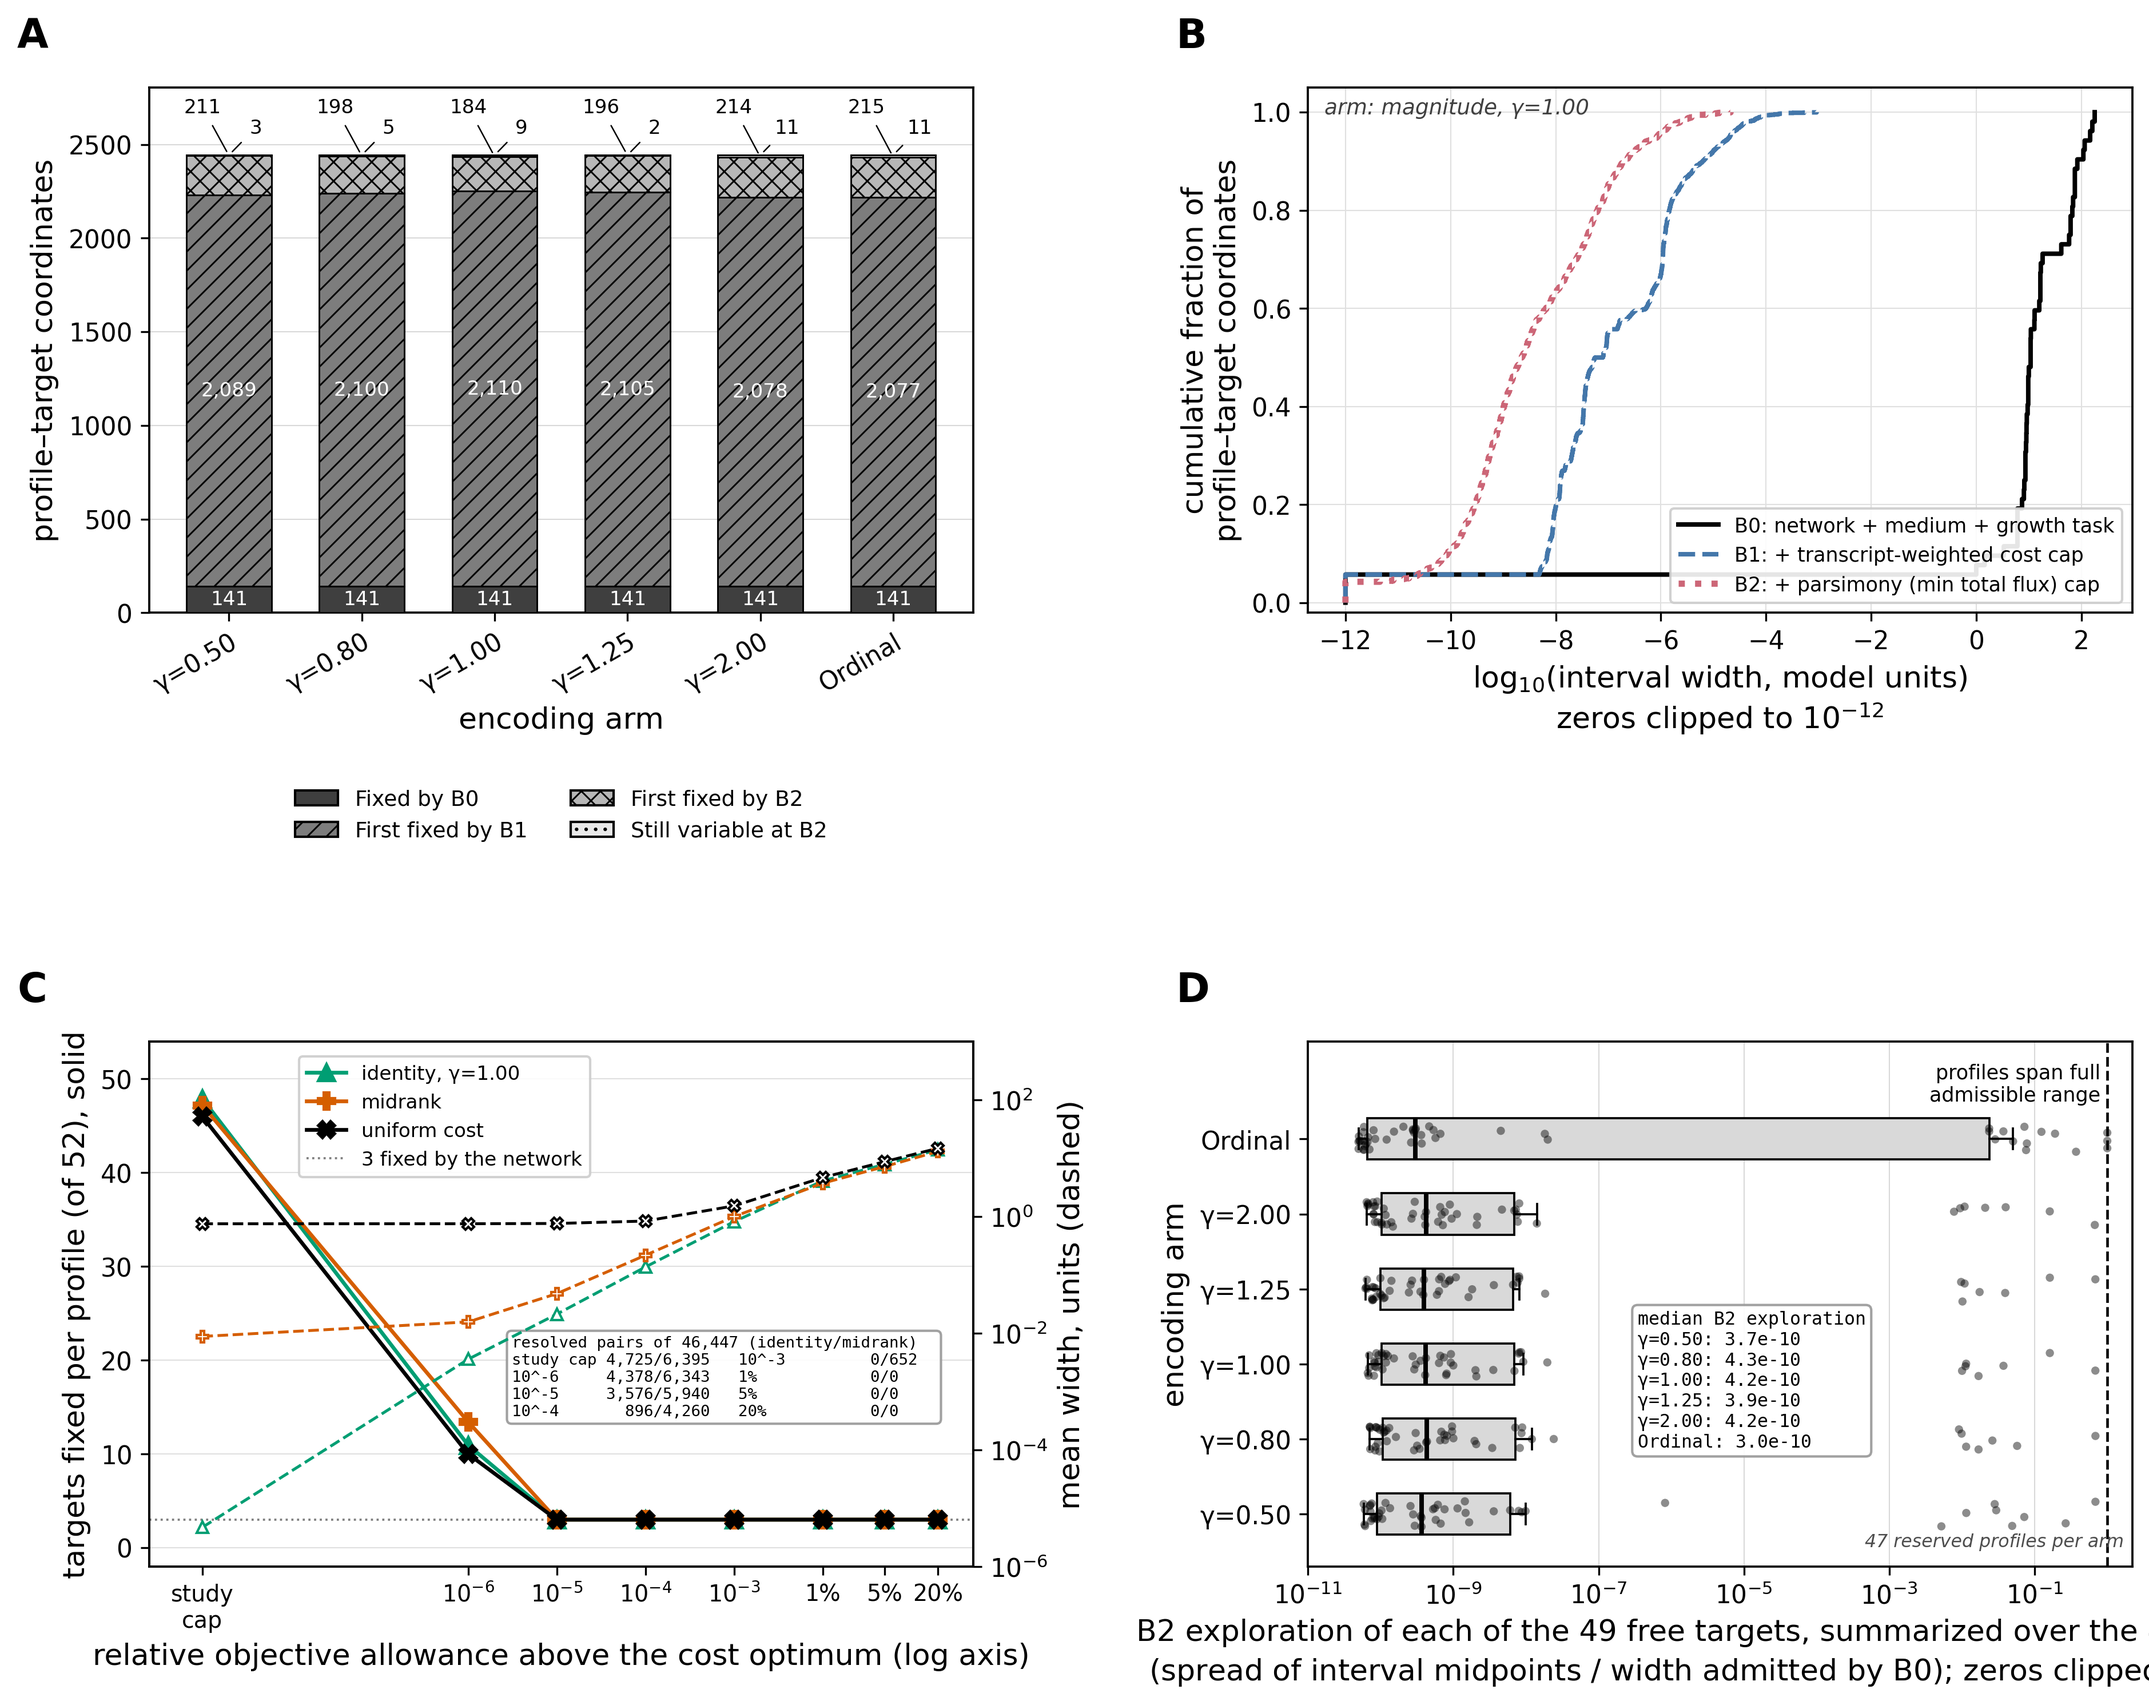
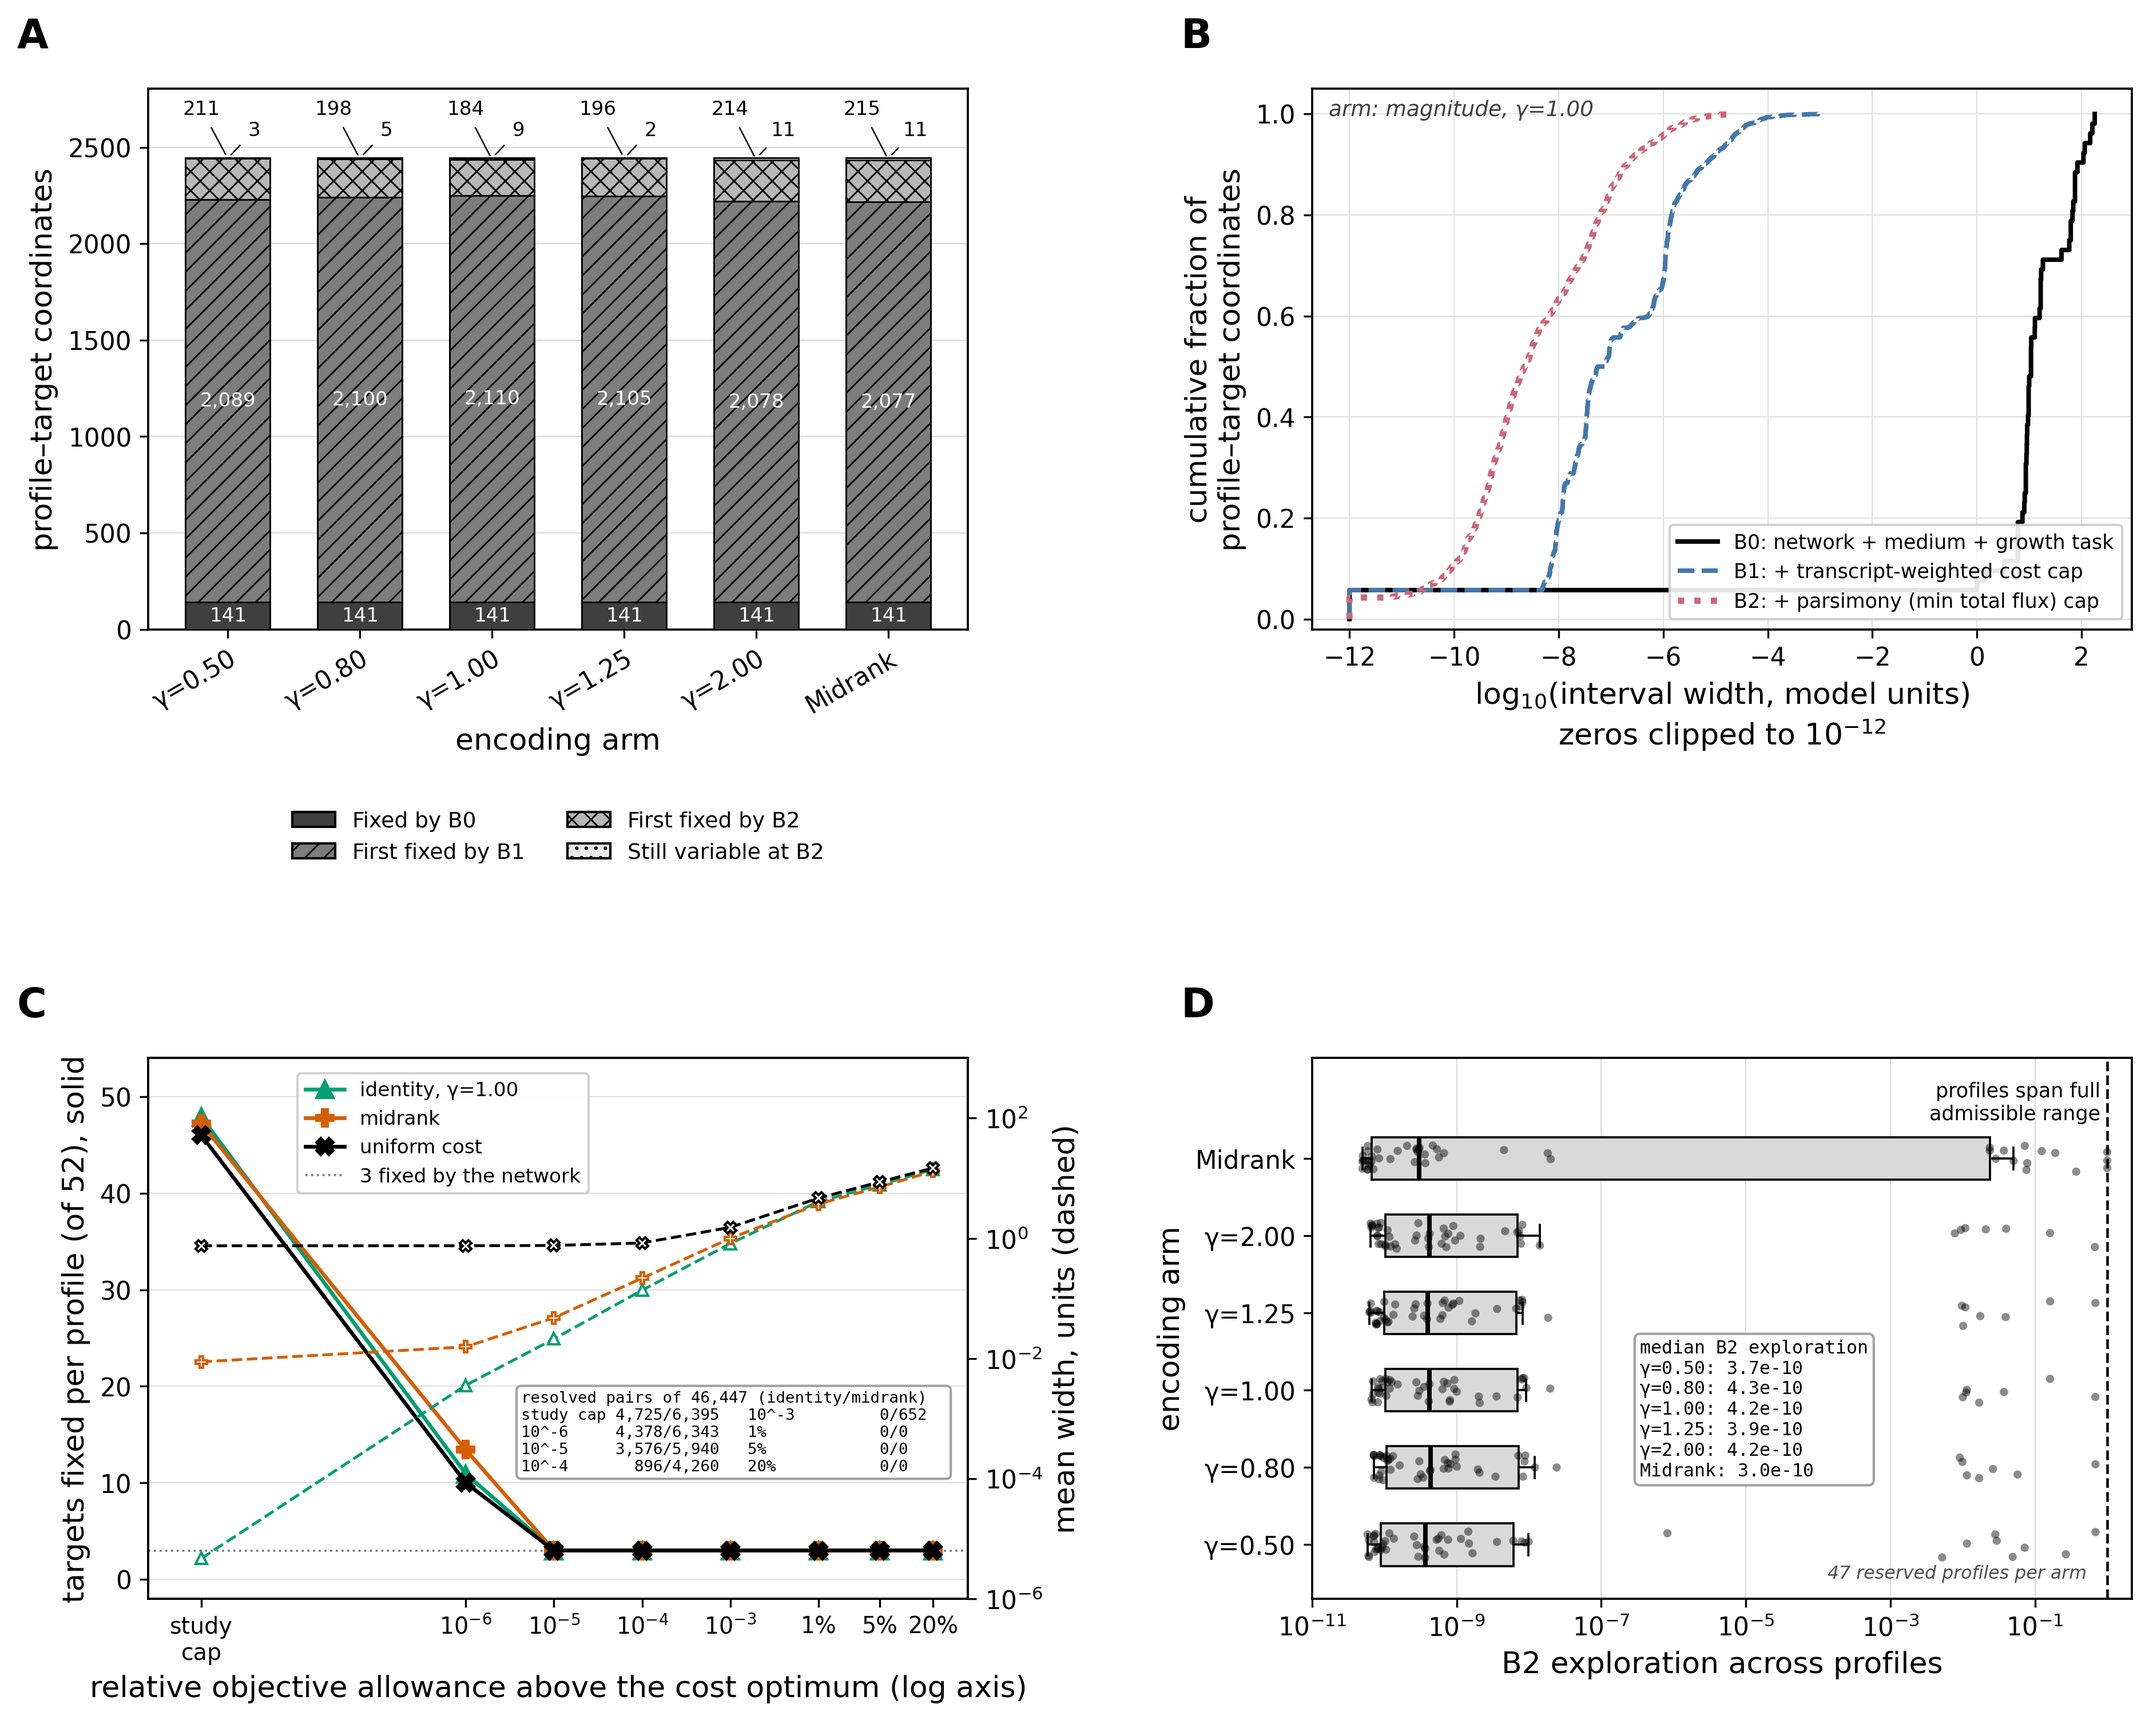
Label the midrank encoding in figures 4 and 6 and keep their annotations inside the frame (release v1.2.1)

diff --git a/figures/make_figures.py b/figures/make_figures.py
@@ -109,7 +109,7 @@ ARM_LABELS6 = {
     "magnitude_g1.00": "γ=1.00",
     "magnitude_g1.25": "γ=1.25",
     "magnitude_g2.00": "γ=2.00",
-    "ordinal": "Ordinal",
+    "ordinal": "Midrank",
 }
 ARMS7 = ARMS6 + ["uniform_pfba"]
 ARM_LABELS7 = dict(ARM_LABELS6, uniform_pfba="Uniform reference")
@@ -313,7 +313,7 @@ def make_figure4(report):
     half = len(cells) // 2
     for left, right in zip(cells[:half], cells[half:]):
         res_lines.append(left + "   " + right)
-    axSweep.text(0.44, 0.44, "\n".join(res_lines), transform=axSweep.transAxes, fontsize=6.6,
+    axSweep.text(0.455, 0.385, "\n".join(res_lines), transform=axSweep.transAxes, fontsize=6.6,
                  ha="left", va="top", family="monospace",
                  bbox=dict(boxstyle="round,pad=0.3", facecolor="white", edgecolor="0.6", alpha=0.92))
     handles, labels = axSweep.get_legend_handles_labels()
@@ -363,7 +363,7 @@ def make_figure4(report):
         raise ValueError("range_location_reserved_stages.tsv: 'profiles' column is not "
                           "constant across free targets; cannot state a single reserved-"
                           "profile count on the panel.")
-    axExplo.text(0.99, 0.03, f"{n_reserved_profiles} reserved profiles per arm", transform=axExplo.transAxes,
+    axExplo.text(0.945, 0.03, f"{n_reserved_profiles} reserved profiles per arm", transform=axExplo.transAxes,
               fontsize=7.6, ha="right", va="bottom", style="italic", color="0.3")
     medians = free.groupby("arm")["explo_c"].median().reindex(ARMS6)
     med_text = "median B2 exploration\n" + "\n".join(
@@ -375,7 +375,7 @@ def make_figure4(report):
     axExplo.set_yticks(positions)
     axExplo.set_yticklabels([ARM_LABELS6[a] for a in ARMS6])
     axExplo.set_ylim(0.3, len(ARMS6) + 1.3)
-    axExplo.set_xlabel("B2 exploration of each of the 49 free targets, summarized over the 47 profiles\n(spread of interval midpoints / width admitted by B0); zeros clipped to $10^{-12}$")
+    axExplo.set_xlabel("B2 exploration across profiles")
     axExplo.set_ylabel("encoding arm")
     axExplo.set_axisbelow(True)
     axExplo.xaxis.grid(True, which="major", linewidth=0.5, color="0.85", zorder=0)
@@ -415,11 +415,15 @@ TREAT_MARKER = {"DMSO": "o", "BAY": "^"}
 TREAT_COLOR = {"DMSO": "#4477AA", "BAY": "#CC6677"}
 
 
-def _bracket(ax, x1, x2, y, h, text, fontsize=8.6):
+def _bracket(ax, x1, x2, y, h, text, fontsize=8.6, align="center"):
     ax.plot([x1, x1, x2, x2], [y, y + h, y + h, y], color="black",
             linewidth=1.0, clip_on=False, zorder=5)
-    ax.text((x1 + x2) / 2.0, y + h * 1.08, text, ha="center", va="bottom",
-              fontsize=fontsize, zorder=5)
+    if align == "right":
+        ax.text(x2 + 0.3, y + h * 1.08, text, ha="right", va="bottom",
+                  fontsize=fontsize, zorder=5)
+    else:
+        ax.text((x1 + x2) / 2.0, y + h * 1.08, text, ha="center", va="bottom",
+                  fontsize=fontsize, zorder=5)
 
 
 def make_figure5(report):
@@ -495,13 +499,13 @@ def make_figure5(report):
         met = row["metabolite"]
         x1 = xpos[(met, row["a_oxygen"], row["a_treatment"])]
         x2 = xpos[(met, row["b_oxygen"], row["b_treatment"])]
-        y = base_y + i * base_h * 2.6
+        y = base_y + i * base_h * 3.4
         label = (f"{row['a_oxygen']} {row['a_treatment']} vs "
                  f"{row['b_oxygen']} {row['b_treatment']}: "
                  f"{row['a_measured_mean']:.0f} vs {row['b_measured_mean']:.0f}, "
                  f"fully separated")
-        _bracket(axA, min(x1, x2), max(x1, x2), y, base_h, label)
-    top_of_brackets = base_y + len(separated) * base_h * 2.6 + base_h * 2.2
+        _bracket(axA, min(x1, x2), max(x1, x2), y, base_h, label, align="right")
+    top_of_brackets = base_y + len(separated) * base_h * 3.4 + base_h * 1.4
 
     glc_vals = np.concatenate([np.asarray(measured[f"glucose|{ox}|{tr}"]) for ox, tr in CONDITION_ORDER])
     glc_center = float(np.mean([xpos[("glucose", ox, tr)] for ox, tr in CONDITION_ORDER]))
@@ -512,7 +516,7 @@ def make_figure5(report):
               ha="center", va="bottom", fontsize=10.5, fontweight="bold")
 
     y_bottom = glc_vals.min() * 1.12
-    y_top = top_of_brackets + abs(glc_vals.min()) * 0.10 + 40
+    y_top = top_of_brackets + 0.075 * (top_of_brackets - y_bottom)
     axA.set_ylim(y_bottom, y_top)
     axA.set_xticks(tick_pos)
     axA.set_xticklabels(tick_lab, fontsize=9.3)
@@ -619,18 +623,18 @@ def make_figure5(report):
     # its lowest, so low x / high y is empty.
     c_ymin, c_ymax = cx["point"].min(), cx["point"].max()
     c_span = c_ymax - c_ymin
-    axC.set_ylim(c_ymin - 0.06 * c_span, c_ymax + 0.55 * c_span)
+    axC.set_ylim(c_ymin - 0.06 * c_span, c_ymax + 0.30 * c_span)
 
     spread_growth = decomp["mean_spread_across_growth_rates_at_fixed_transcript"]
     spread_profile = decomp["mean_spread_across_transcripts_at_fixed_growth_rate"]
     ratio = decomp["ratio_transcript_to_task"]
-    note = (f"crossed design: {n_profiles} transcript profiles × {n_growth_rates} growth rates\n"
-            f"arm γ=1.00, EX_lac__L_e\n"
+    note = (f"{n_profiles} transcript profiles × {n_growth_rates} growth rates\n"
+            f"identity encoding, lactate exchange\n"
             f"mean spread across growth rates: {spread_growth:.3f}\n"
             f"mean spread across profiles: {spread_profile:.4f}\n"
-            f"ratio (profile / growth-rate): {ratio*100:.1f}%")
-    axC.text(0.03, 0.97, note, transform=axC.transAxes, fontsize=8.3,
-              ha="left", va="top",
+            f"ratio (profiles / growth rates): {ratio*100:.1f}%")
+    note_artist = axC.text(0.97, 0.035, note, transform=axC.transAxes, fontsize=7.6,
+              ha="right", va="bottom",
               bbox=dict(boxstyle="round,pad=0.35", facecolor="white",
                         edgecolor="0.5", alpha=0.92), zorder=6)
 
@@ -652,7 +656,7 @@ def make_figure5(report):
                       linestyle="--", zorder=4)
     axC.add_patch(rect)
 
-    axins = axC.inset_axes([0.55, 0.08, 0.41, 0.40])
+    axins = axC.inset_axes([0.14, 0.50, 0.38, 0.36])
     for ctx, g in cx.groupby("context_id"):
         g = g.sort_values("task_flux")
         axins.plot(g.task_flux, g.point, color="#4477AA", alpha=0.6, linewidth=1.3,
@@ -702,6 +706,25 @@ def make_figure5(report):
         raise ValueError(
             f"Figure 5 Panel A: the legend box covers {int(covered.sum())} plotted "
             f"replicate point(s); increase `gap` or reposition the legend.")
+
+    # Panel C: the note box and the inset must not cover any plotted line (checked in pixel space).
+    seg = []
+    for ctx, g in cx.groupby("context_id"):
+        g = g.sort_values("task_flux")
+        xs_ = np.interp(np.linspace(0, len(g) - 1, 400), np.arange(len(g)), g.task_flux.values)
+        ys_ = np.interp(np.linspace(0, len(g) - 1, 400), np.arange(len(g)), g.point.values)
+        seg.append(axC.transData.transform(np.column_stack([xs_, ys_])))
+    seg = np.vstack(seg)
+    for name_, box_ in (("note box", note_artist.get_window_extent(renderer)),
+                        ("inset", axins.get_window_extent(renderer))):
+        hit = ((seg[:, 0] >= box_.x0 - 4) & (seg[:, 0] <= box_.x1 + 4) &
+               (seg[:, 1] >= box_.y0 - 4) & (seg[:, 1] <= box_.y1 + 4))
+        if hit.any():
+            raise ValueError(f"Figure 6 Panel C: the {name_} covers part of a plotted line; reposition it.")
+    frame = axC.get_window_extent(renderer)
+    nb = note_artist.get_window_extent(renderer)
+    if nb.x0 < frame.x0 or nb.x1 > frame.x1 or nb.y0 < frame.y0 or nb.y1 > frame.y1:
+        raise ValueError("Figure 6 Panel C: the note box leaves the axes frame; shorten it.")
 
     out_path = os.path.join(OUTDIR, "Figure_6_Independent_Evaluation.png")
     fig.savefig(out_path, dpi=300, bbox_inches="tight")

diff --git a/RELEASE_MANIFEST.md b/RELEASE_MANIFEST.md
@@ -1,7 +1,10 @@
 # Release manifest
 
-Release tag: `v1.2.0`
-Archived record: https://doi.org/10.5281/zenodo.22796608 (release v1.2.0, tag object `980fde2f`, commit `ac2cdd1e74f715ce97ae8314eee13226cc3f3dcf`). The identifier is minted when the release is archived, so the copy of this file inside the tagged tree names only the earlier releases; `main` records the identifier in the commit that follows the tag.
+Release tag: `v1.2.1`
+Archived record: see `SOURCES.md` (the identifier of this release is minted when the release is archived, so the copy of that file inside the release names the identifiers of the releases before it; the repository's `main` branch records the new identifier in the commit that follows the tag).
+
+Release v1.2.1 is release v1.2.0 with the figure script for figures 4 to 6 and two rendered figures
+replaced (section 8); every other file, and both release assets, are those of v1.2.0.
 
 This file states what the release carries, how it relates to the locked study directory the
 analyses ran in, what regenerates from what, and what was changed when the working tree was
@@ -50,7 +53,8 @@ analyses; those analyses record their own input digests in their run manifests.
[1 lines of base64/hex data omitted]
 
 `bash verify/fetch_release_assets.sh` downloads both from the release that matches this checkout,
-verifies these digests and unpacks them.
+verifies these digests and unpacks them. The two archives attached to release v1.2.1 are the
+archives of release v1.2.0, unchanged.
 
 ## 3. Path map from release v1.1.0
 
@@ -158,5 +162,30 @@ written while the study was assembled are not deposited; the machine records the
 
 ## 7. Clean-checkout verification
 
-The record of the clean-checkout verification performed on this release is
-`verify/clean_checkout_log_v1.2.0.md`.
+The record of the clean-checkout verification is `verify/clean_checkout_log_v1.2.0.md`. It was
+performed on release v1.2.0. Release v1.2.1 differs from it only in the four files of section 8,
+none of which is an input to an analysis or to the number checker; the checks repeated on a fresh
+clone of v1.2.1 are listed in that section.
+
+## 8. Changes in v1.2.1
+
+Release v1.2.1 replaces four files of v1.2.0. No analysis was rerun, and no result table,
+protocol record, locked source or locked input was modified.
+
+| File | Digest in v1.2.0 | Digest in v1.2.1 | Change |
+|---|---|---|---|
[4 lines of base64/hex data omitted]
+
+`results/figures/manuscript/Figure_5_Comparator_Formulations.png` is byte-identical to v1.2.0.
+The script prints the values it draws; run from v1.2.0 and from v1.2.1 on the same checkout, the
+two reports agree on all 260 values. The digest of `figures/make_figures.py` in section 4 is that
+of v1.2.0.
+
+Checks repeated on a fresh clone of v1.2.1 before the tag was pushed: `python verify/check_release.py`
+(every file listed in `CHECKSUMS.sha256` matches, and the lock reconciliation is that of section
+1), `FIGURE_OUT=<new directory> python figures/make_figures.py` (figures 4 to 6 render from the
+deposited outputs), and `python verify/verify_manuscript_numbers.py` against the manuscript and
+its supplementary article (284 checks, 0 problems).

diff --git a/PROVENANCE_NOTE.md b/PROVENANCE_NOTE.md
@@ -35,3 +35,6 @@ every script expect (`RELEASE_MANIFEST.md`, sections 1 and 3). Seven further pro
 were normalized in the same way as above (section 5 of the manifest), and the path constants of
 four scripts that still named workstation folders were changed to name the repository (section 4).
 No result file, protocol record, locked source or locked input was modified.
+
+**Version 1.2.1.** No provenance record changed. The release replaces the figure script for
+figures 4 to 6 and two rendered figures (`RELEASE_MANIFEST.md`, section 8).
